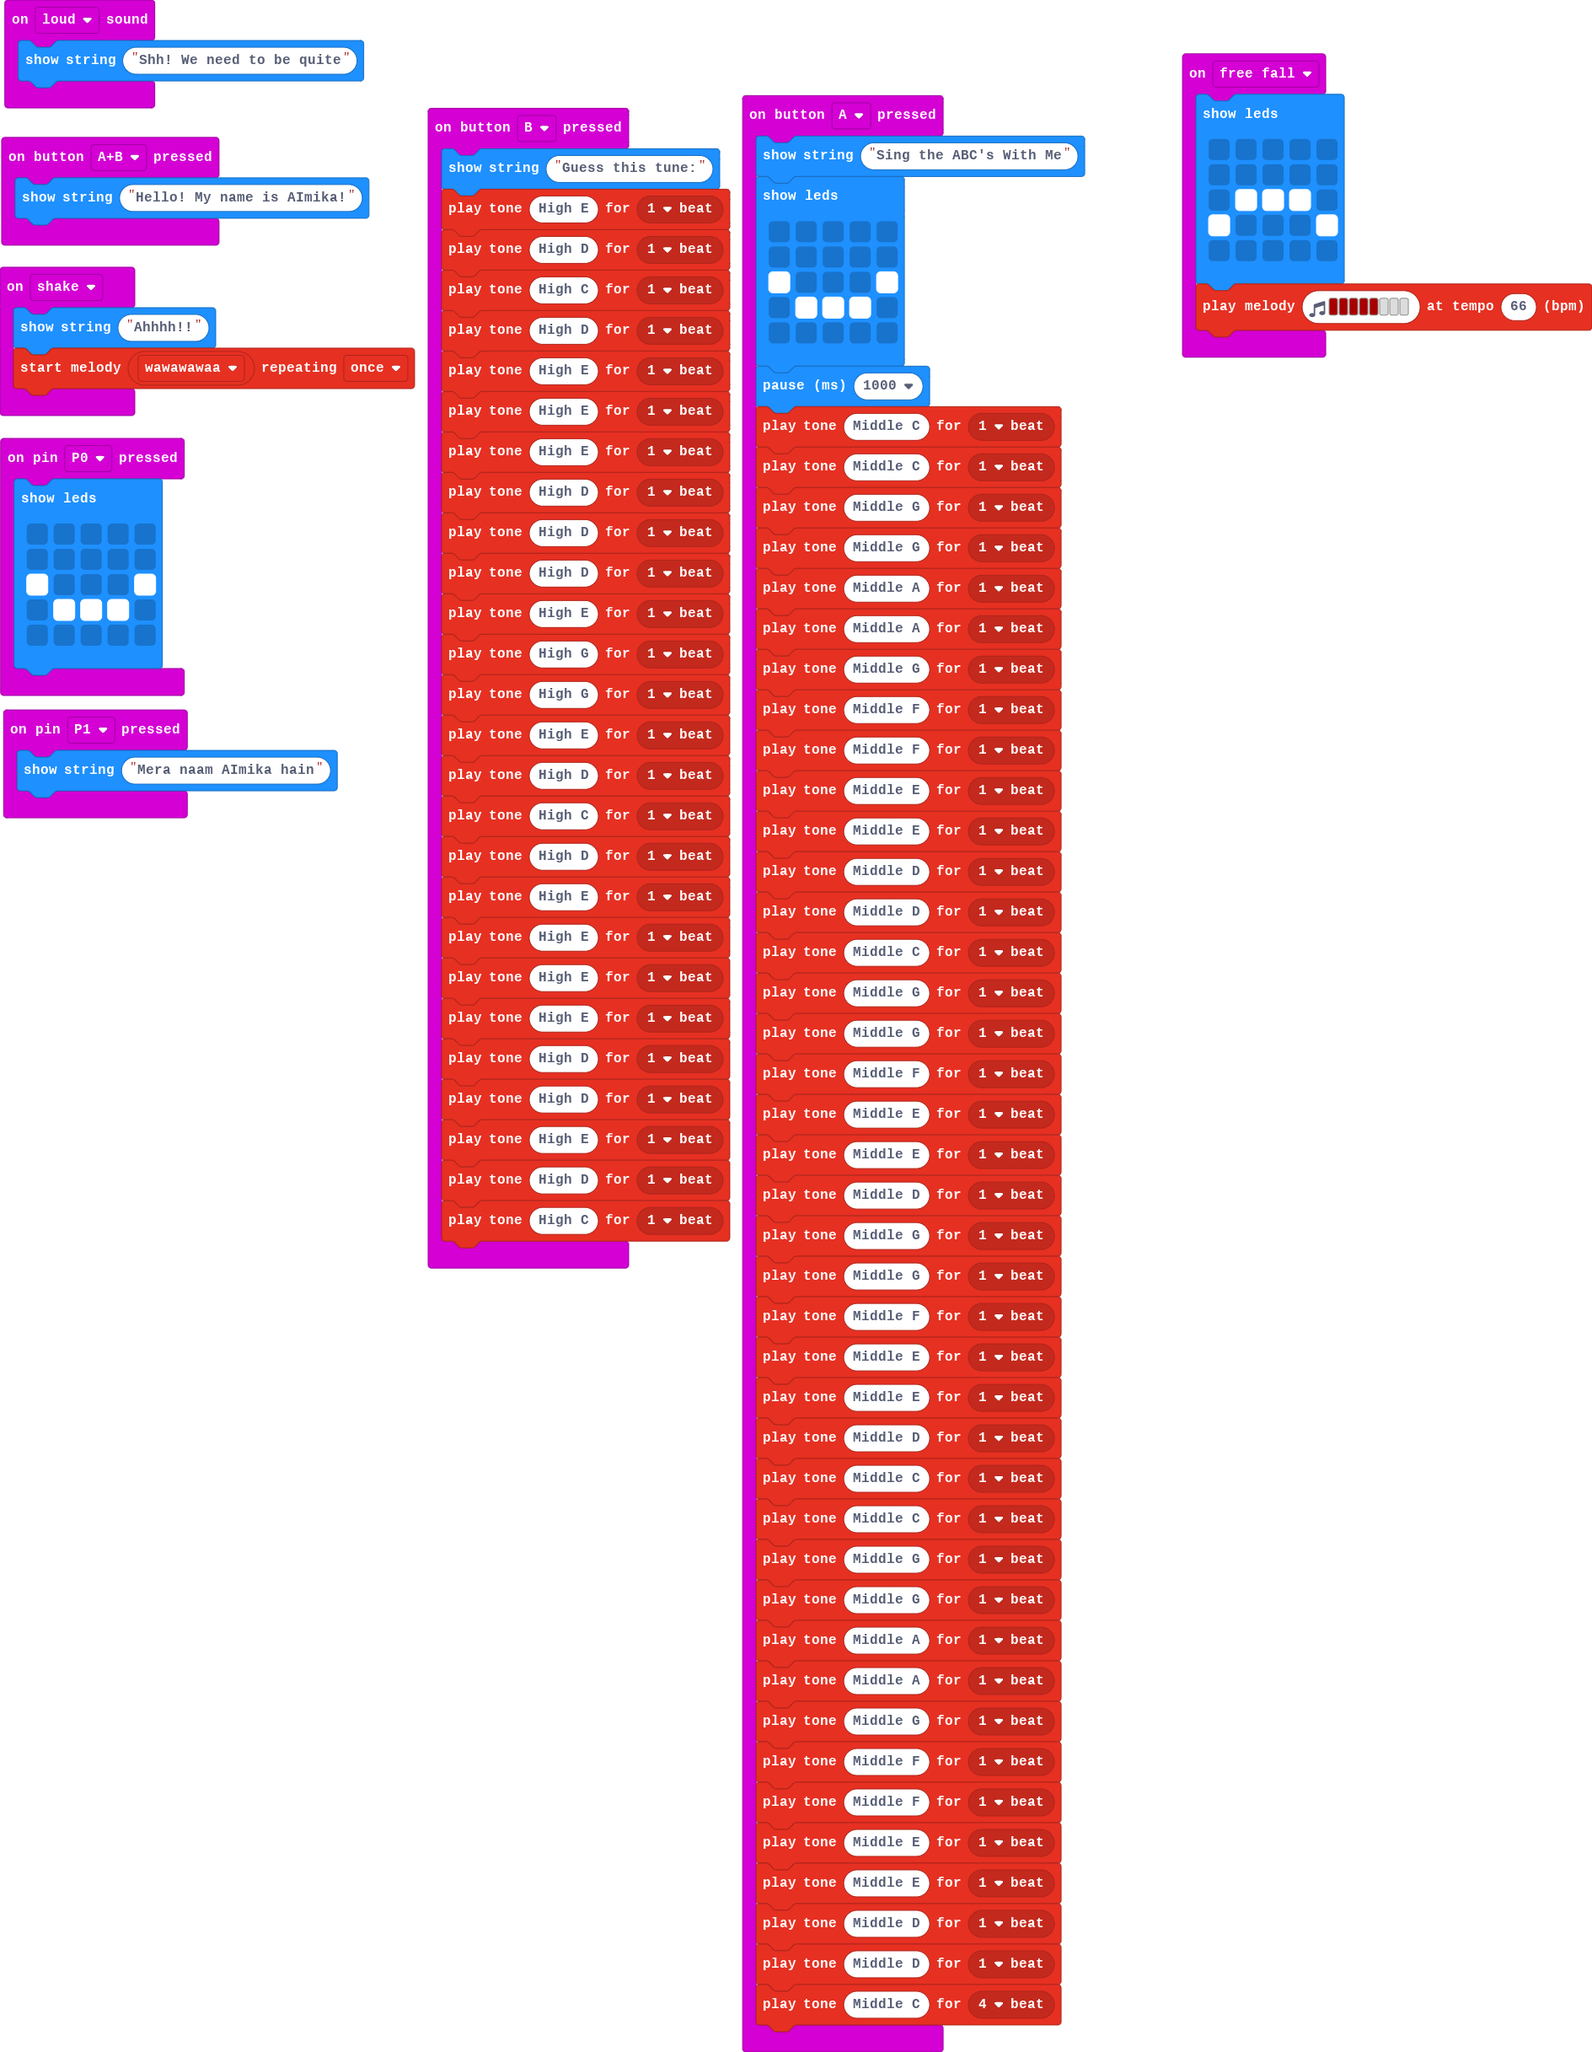
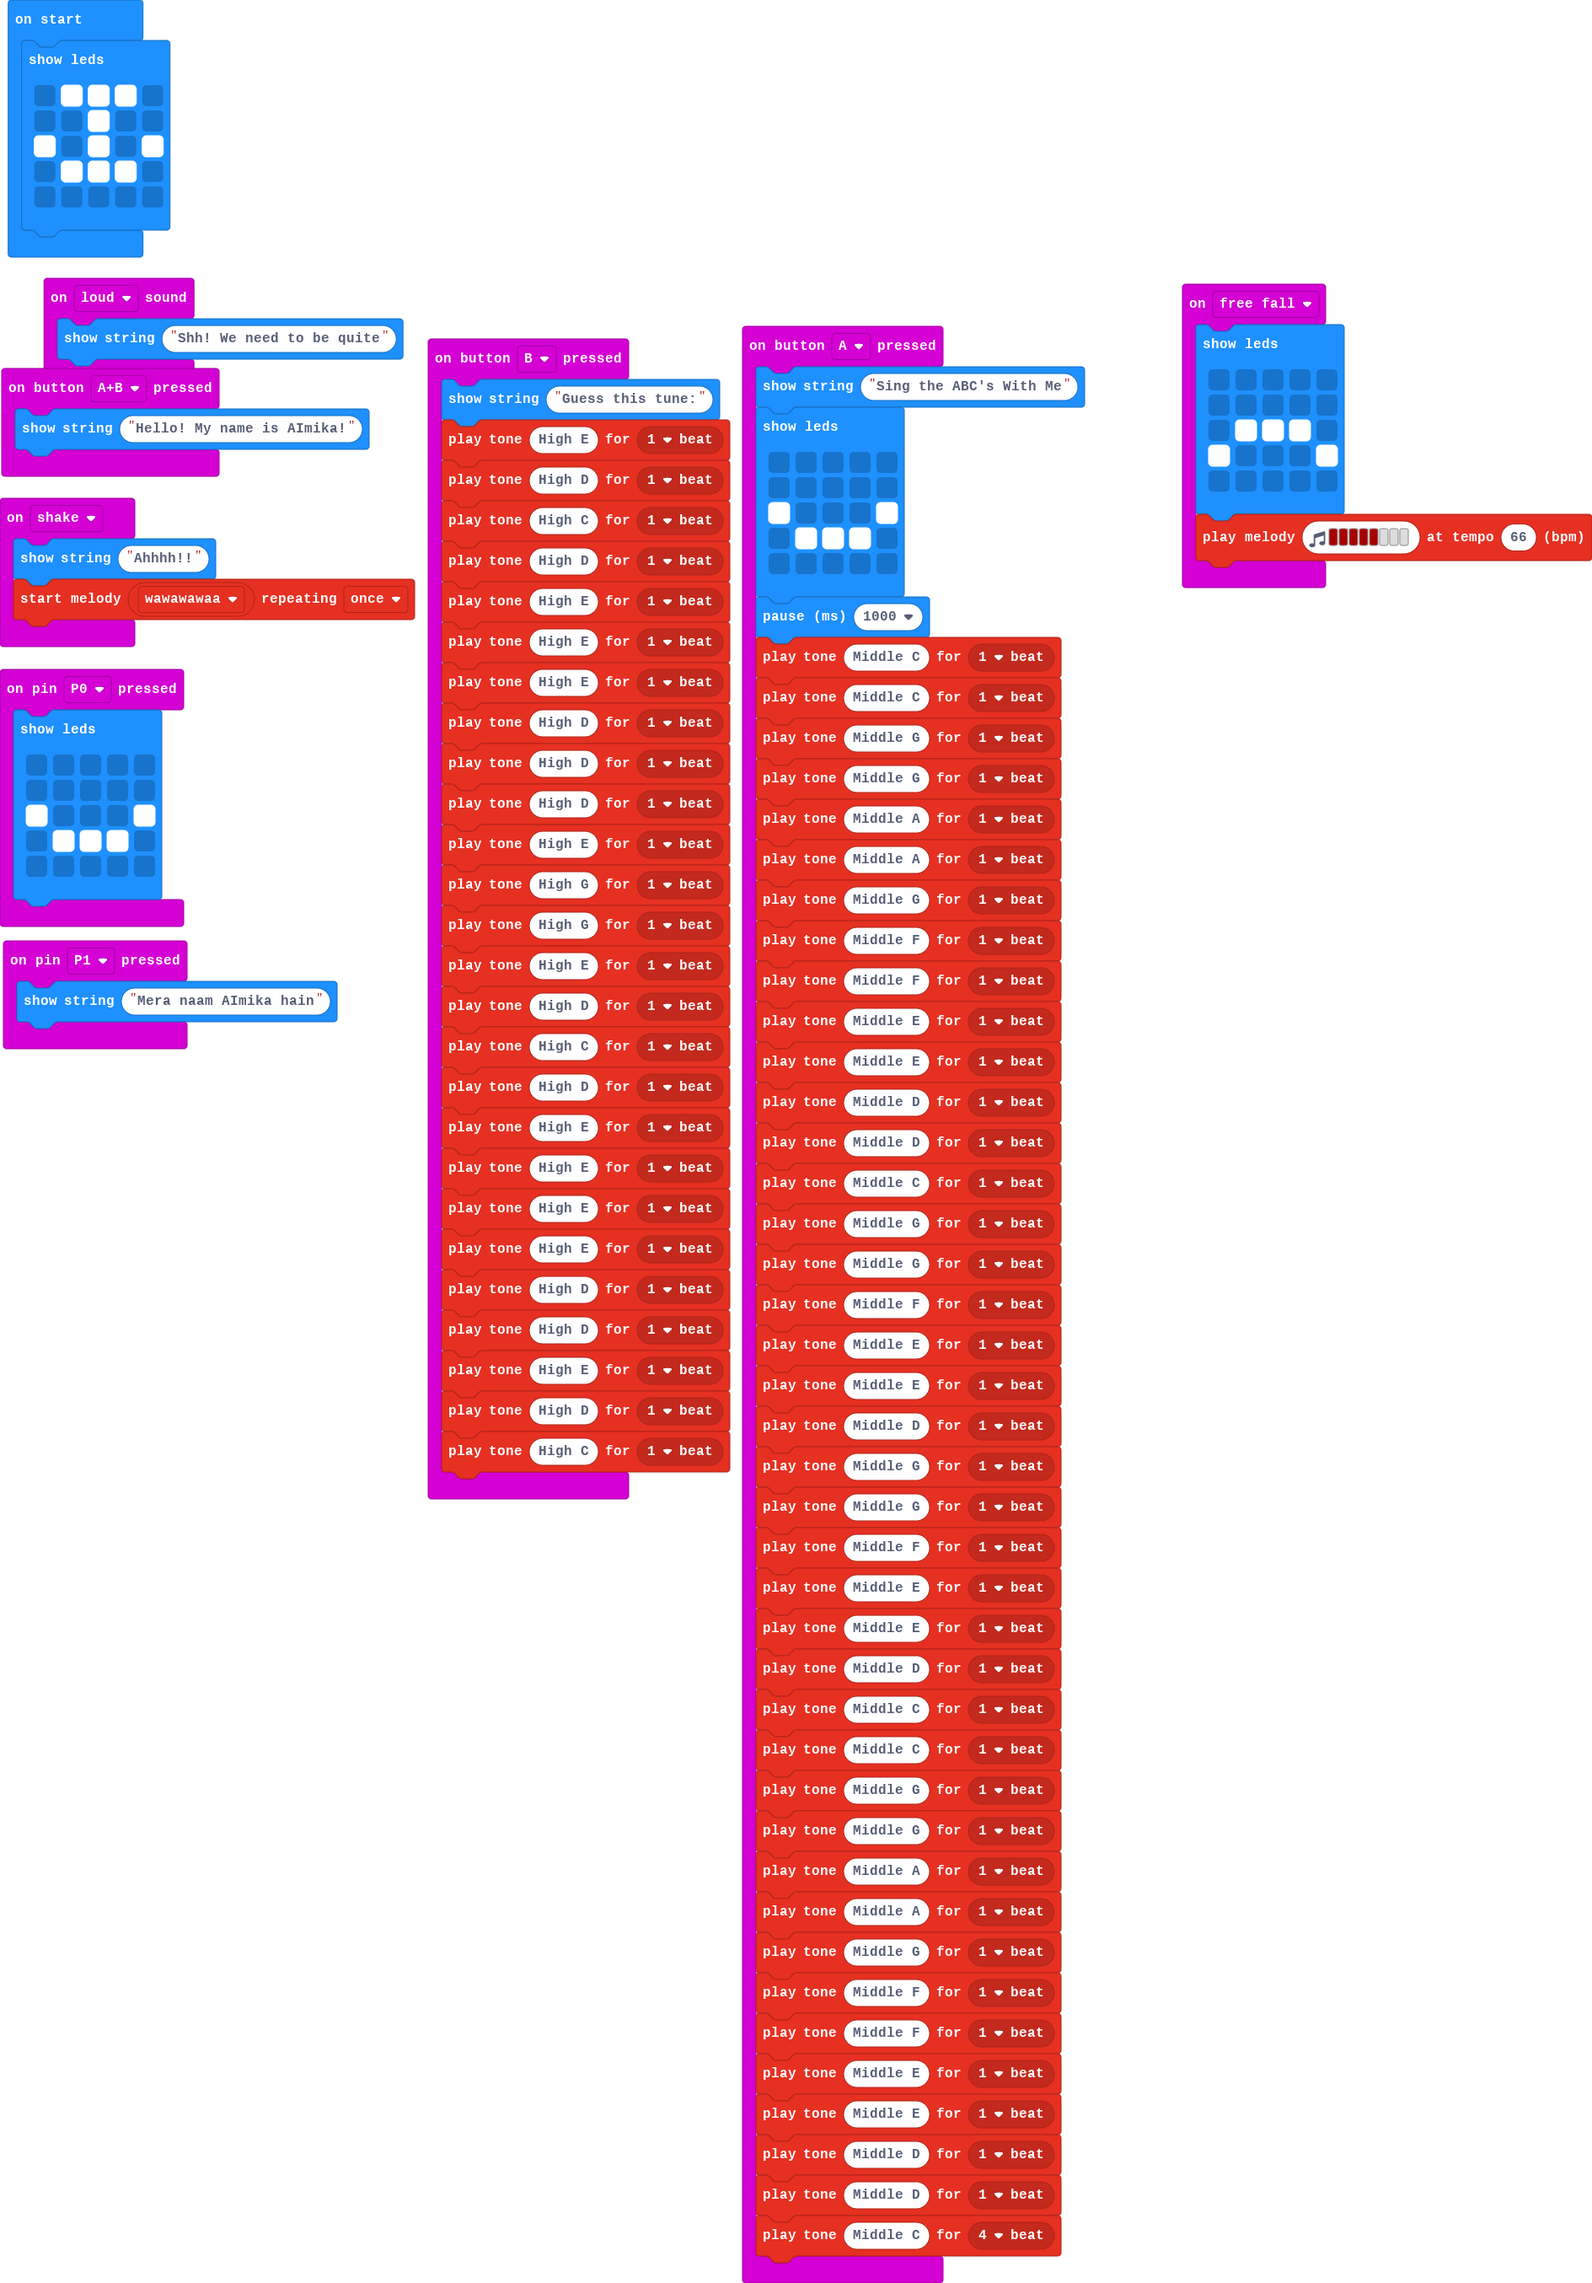
Update main.blocks, main.ts

Changed region(s): [[0.0, 0.0, 0.6871, 0.9992], [0.7184, 0.0, 1.0, 0.281]]

diff --git a/main.ts b/main.ts
@@ -110,3 +110,10 @@ input.onGesture(Gesture.Shake, function () {
     basic.showString("Ahhhh!!")
     music.startMelody(music.builtInMelody(Melodies.Wawawawaa), MelodyOptions.Once)
 })
+basic.showLeds(`
+    . # # # .
+    . . # . .
+    # . # . #
+    . # # # .
+    . . . . .
+    `)
